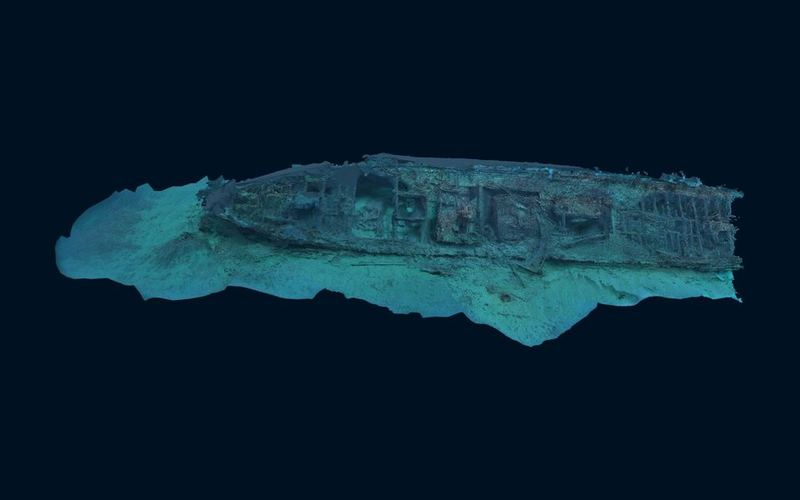
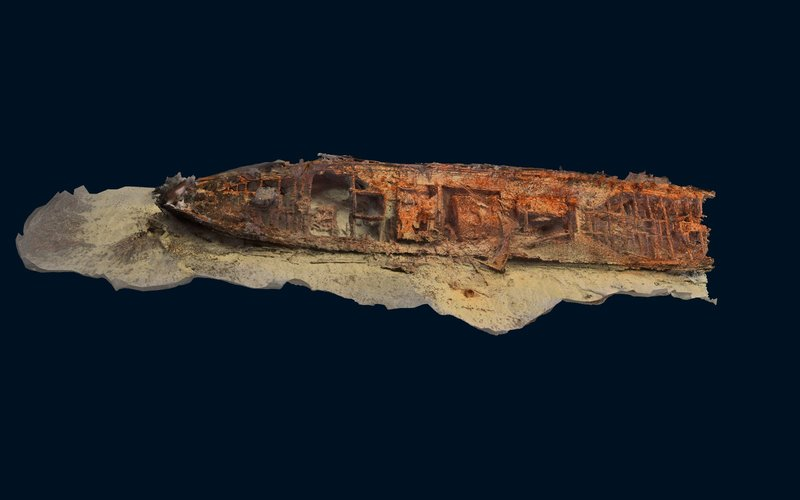
Update the Euro thumbnail and reload thumbnails with their model
New Euro.jpg rendered from the updated model at the same angle and
framing as the old one. Thumbnail links now carry the model's version,
so a replaced model's picture is fetched fresh instead of served from
the browser's cache.

Claude-Session: https://claude.ai/code/session_01Pf1LuTay7KgBv6fvAzgtmN

Changed region(s): [[0.0, 0.3, 0.9375, 0.69]]

diff --git a/site/index.html b/site/index.html
@@ -191,10 +191,13 @@
         const statusEl = document.getElementById('status');
 
         // Thumbnails live in site/thumbnails/, named after the model file:
-        // .../f/Euro.glb -> /thumbnails/Euro.jpg
+        // .../f/v/<version>/Euro.glb -> /thumbnails/Euro.jpg?v=<version>
+        // The version changes when the model is replaced, so the picture
+        // reloads with it.
         function thumbnailUrl(modelUrl) {
             const file = decodeURIComponent(modelUrl.slice(modelUrl.lastIndexOf('/') + 1));
-            return '/thumbnails/' + encodeURIComponent(file.replace(/\.glb$/i, '.jpg'));
+            const version = modelUrl.match(/\/f\/v\/([^/]+)\//);
+            return '/thumbnails/' + encodeURIComponent(file.replace(/\.glb$/i, '.jpg')) + (version ? '?v=' + version[1] : '');
         }
 
         async function xrSupport(mode) {
